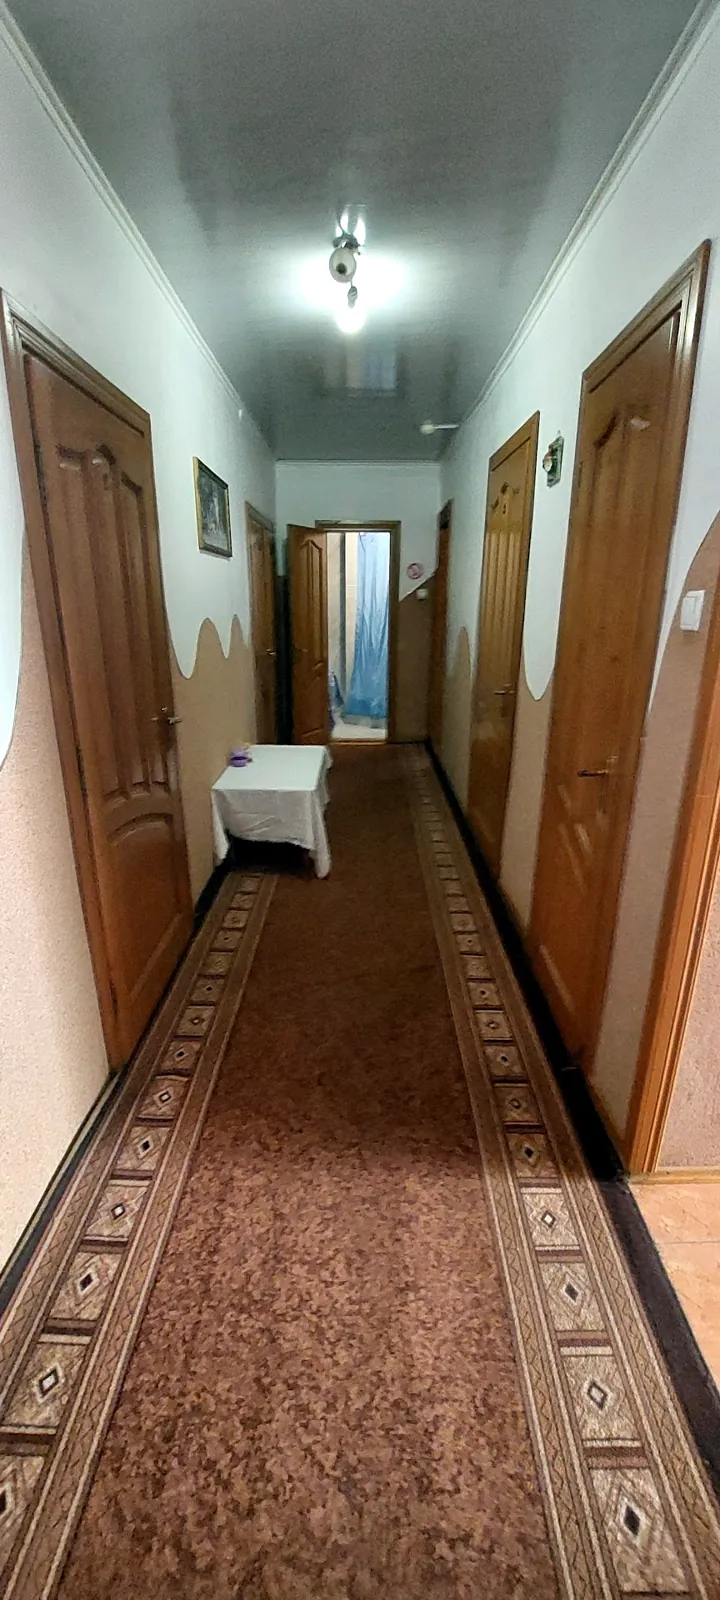
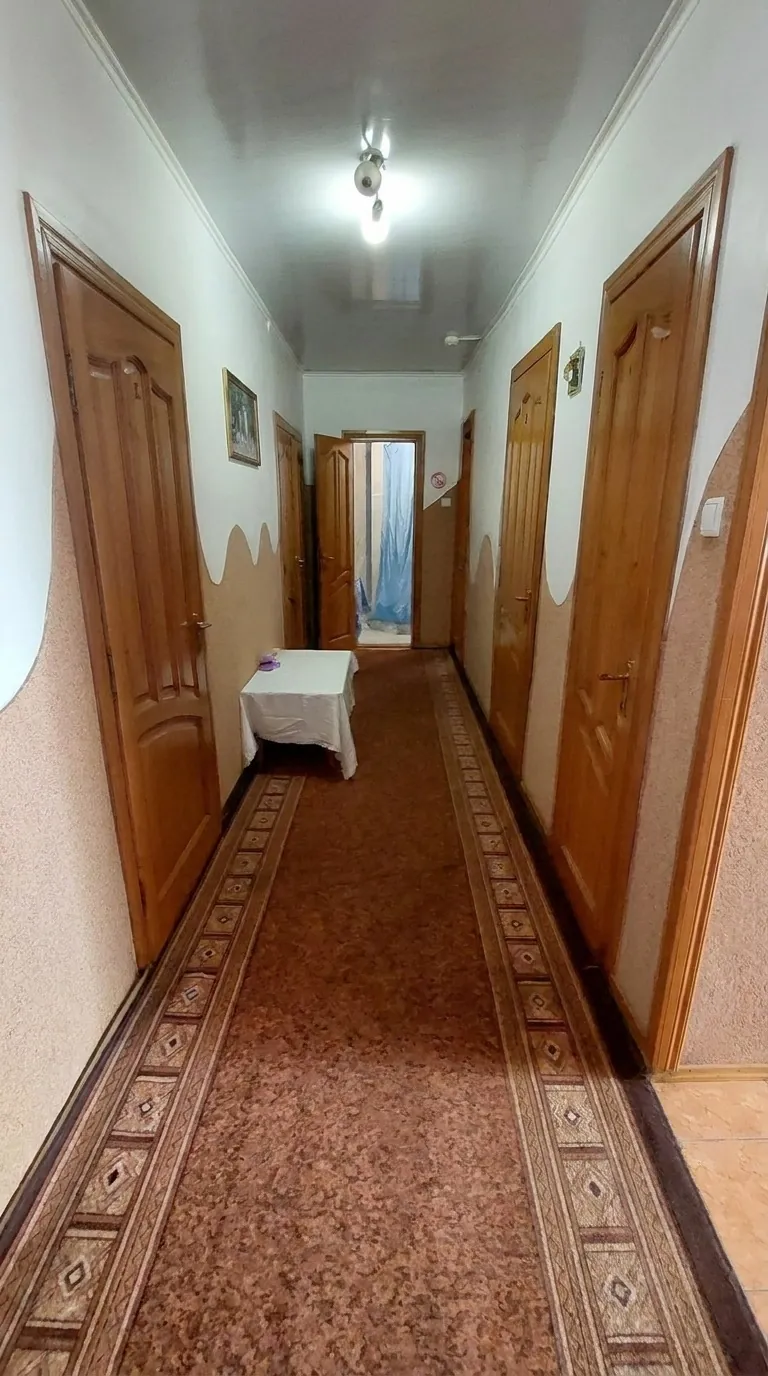
Retouched guest photos: light, white balance, straight verticals

diff --git a/index.html b/index.html
@@ -885,9 +885,9 @@ textarea.inp{height:auto;min-height:92px;padding:13px 14px;line-height:1.45;resi
         <p>«Геолог» займає перший поверх будинку на вулиці Степана Бандери, 13а, за ялинками і цегляною огорожею. До залізничного вокзалу 8 хвилин пішки, до майдану Ринок 11. Гість пише: «поруч з залізничним вокзалом, але його не чути».</p>
         <p>Номери на одного, двох і чотирьох гостей. Душ і кухня в блоці на кілька номерів, як у квартирі, а частина номерів має власний санвузол. На кухні можна готувати самому, тому тут зручно жити у відрядженні, навіть довгому. Гостей зустрічають і заселяють адміністратори.</p>
       </div>
-      <figure class="ph about__a" data-rv><img width="1600" height="900" src="img/fasad.webp" alt="Готель «Геолог»: вхід з зеленою вивіскою, ялинки і квіти перед ганком" loading="lazy" decoding="async"></figure>
-      <figure class="ph about__b" data-rv><img width="1600" height="1200" src="img/dbl-1.webp" alt="Двомісний номер з великим ліжком і шторами з ламбрекеном" loading="lazy" decoding="async"></figure>
-      <figure class="ph about__c" data-rv><img width="1600" height="1200" src="img/kukhnia-1.webp" alt="Спільна кухня з чайником, мікрохвильовкою і посудом" loading="lazy" decoding="async"></figure>
+      <figure class="ph about__a" data-rv><img width="1376" height="768" src="img/fasad.webp" alt="Готель «Геолог»: вхід з зеленою вивіскою, ялинки і квіти перед ганком" loading="lazy" decoding="async"></figure>
+      <figure class="ph about__b" data-rv><img width="1200" height="896" src="img/dbl-1.webp" alt="Двомісний номер з великим ліжком і шторами з ламбрекеном" loading="lazy" decoding="async"></figure>
+      <figure class="ph about__c" data-rv><img width="1200" height="896" src="img/kukhnia-1.webp" alt="Спільна кухня з чайником, мікрохвильовкою і посудом" loading="lazy" decoding="async"></figure>
     </div>
   </div>
 </section>
@@ -957,7 +957,7 @@ textarea.inp{height:auto;min-height:92px;padding:13px 14px;line-height:1.45;resi
       <div class="rcar" id="rcar" data-rv tabindex="-1">
         
 <article class="rcard">
-          <img width="406" height="900" src="img/dbl-3.webp" alt="Двомісний номер" loading="lazy" decoding="async">
+          <img width="768" height="1376" src="img/dbl-3.webp" alt="Двомісний номер" loading="lazy" decoding="async">
           <button class="rcard__hit" type="button" data-open="tpl-dbl" aria-label="Двомісний, детальніше"></button>
           <div class="rcard__bar"><div><h3>Двомісний</h3><p>одне велике ліжко або два окремі</p></div><span class="rcard__go" aria-hidden="true"><svg class="i"><use href="#i-arrow"/></svg></span></div>
         </article>
@@ -967,7 +967,7 @@ textarea.inp{height:auto;min-height:92px;padding:13px 14px;line-height:1.45;resi
           <div class="rcard__bar"><div><h3>Сімейний</h3><p>для батьків з дітьми</p></div><span class="rcard__go" aria-hidden="true"><svg class="i"><use href="#i-arrow"/></svg></span></div>
         </article>
 <article class="rcard">
-          <img width="1200" height="1600" src="img/single-1.webp" alt="Одномісний номер" loading="lazy" decoding="async">
+          <img width="896" height="1200" src="img/single-1.webp" alt="Одномісний номер" loading="lazy" decoding="async">
           <button class="rcard__hit" type="button" data-open="tpl-single" aria-label="Одномісний, детальніше"></button>
           <div class="rcard__bar"><div><h3>Одномісний</h3><p>для того, хто їде сам</p></div><span class="rcard__go" aria-hidden="true"><svg class="i"><use href="#i-arrow"/></svg></span></div>
         </article>
@@ -996,23 +996,23 @@ textarea.inp{height:auto;min-height:92px;padding:13px 14px;line-height:1.45;resi
     </div>
     <div class="svc__panel" role="tabpanel" id="pan-1" aria-labelledby="tab-1">
       <div class="svc__txt"><p>Кухня на кілька номерів, як у квартирі: електроплита, холодильник, чайник, мікрохвильовка і посуд. Кава, чай і цукор від готелю. Гостя пише: «Є кухня, де можна випити кави або чаю, якими пригощає готель».</p><a class="btn btn--ghost" href="#bron">Забронювати</a></div>
-      <div class="svc__pic is-duo"><img width="1600" height="1200" src="img/kukhnia-1.webp" alt="Кухня з чайником, мікрохвильовкою і посудом" loading="lazy" decoding="async"><img width="1200" height="1600" src="img/kukhnia-2.webp" alt="Обідній куточок з диванчиком біля вікна" loading="lazy" decoding="async"><span class="chip">Фото гостей</span></div>
+      <div class="svc__pic is-duo"><img width="1200" height="896" src="img/kukhnia-1.webp" alt="Кухня з чайником, мікрохвильовкою і посудом" loading="lazy" decoding="async"><img width="896" height="1200" src="img/kukhnia-2.webp" alt="Обідній куточок з диванчиком біля вікна" loading="lazy" decoding="async"><span class="chip">Фото гостей</span></div>
     </div>
     <div class="svc__panel" role="tabpanel" id="pan-2" aria-labelledby="tab-2" hidden>
       <div class="svc__txt"><p>Душ у блоці поруч з номером, частина номерів має власний санвузол. У душовій пральна машина, праску дадуть на прохання. Гість пише: «Туалет і душ в гарному стані, чисто, сухо і нічого зайвого».</p><a class="btn btn--ghost" href="#rooms">Дивитися номери</a></div>
-      <div class="svc__pic is-duo"><img width="720" height="1600" src="img/dush.webp" alt="Душова кабіна з плиткою" loading="lazy" decoding="async"><img width="1200" height="1600" src="img/korydor.webp" alt="Світлий коридор між номерами" loading="lazy" decoding="async"><span class="chip">Фото гостей</span></div>
+      <div class="svc__pic is-duo"><img width="768" height="1376" src="img/dush.webp" alt="Душова кабіна з плиткою" loading="lazy" decoding="async"><img width="896" height="1200" src="img/korydor.webp" alt="Світлий коридор між номерами" loading="lazy" decoding="async"><span class="chip">Фото гостей</span></div>
     </div>
     <div class="svc__panel" role="tabpanel" id="pan-3" aria-labelledby="tab-3" hidden>
       <div class="svc__txt"><p>Гість у відрядженні пише: «При відключенні світла вмикається інвертор, що теж приємно здивувало». Wi-Fi безкоштовний, у номерах телевізор, на вході домофон.</p><a class="btn btn--ghost" href="#bron">Забронювати</a></div>
-      <div class="svc__pic is-duo"><img width="1600" height="1200" src="img/dbl-1.webp" alt="Номер з телевізором на стіні" loading="lazy" decoding="async"><img width="1600" height="1200" src="img/vkhid.webp" alt="Вхід з домофоном" loading="lazy" decoding="async"><span class="chip">Фото гостей</span></div>
+      <div class="svc__pic is-duo"><img width="1200" height="896" src="img/dbl-1.webp" alt="Номер з телевізором на стіні" loading="lazy" decoding="async"><img width="1200" height="896" src="img/vkhid.webp" alt="Вхід з домофоном" loading="lazy" decoding="async"><span class="chip">Фото гостей</span></div>
     </div>
     <div class="svc__panel" role="tabpanel" id="pan-4" aria-labelledby="tab-4" hidden>
       <div class="svc__txt"><p>Заїзд з 12:00, виїзд о 12:00 наступного дня. Приїжджаєте раніше? Зателефонуйте заздалегідь і скажіть, о котрій будете: ранній заїзд можливий за домовленістю. Гості розповідають, що їх дочекалися й заселили навіть пізно ввечері. З домашніми тваринами не поселяємо.</p><a class="btn btn--ghost" href="viber://chat?number=%2B380962184136">Написати у Viber</a></div>
-      <div class="svc__pic is-duo"><img width="1600" height="1200" src="img/fasad-osin.webp" alt="Ганок готелю з цегляними стовпчиками" loading="lazy" decoding="async"><img width="720" height="1600" src="img/korydor-2.webp" alt="Коридор з дверима номерів" loading="lazy" decoding="async"><span class="chip">Фото гостей</span></div>
+      <div class="svc__pic is-duo"><img width="1200" height="896" src="img/fasad-osin.webp" alt="Ганок готелю з цегляними стовпчиками" loading="lazy" decoding="async"><img width="768" height="1376" src="img/korydor-2.webp" alt="Коридор з дверима номерів" loading="lazy" decoding="async"><span class="chip">Фото гостей</span></div>
     </div>
     <div class="svc__panel" role="tabpanel" id="pan-5" aria-labelledby="tab-5" hidden>
       <div class="svc__txt"><p>Вокзал за 8 хвилин пішки, майдан Ринок за 11. Поруч супермаркет, продуктові, кафе й ринок. А вулиця Степана Бандери тут тиха: гість пише, що вокзалу не чути.</p><a class="btn btn--ghost" href="#place">Як дійти</a></div>
-      <div class="svc__pic is-duo"><img width="1600" height="900" src="img/fasad.webp" alt="Будинок з вулиці Степана Бандери" loading="lazy" decoding="async"><img width="1600" height="1200" src="img/fasad-yalyny.webp" alt="Ялинки і цегляна огорожа" loading="lazy" decoding="async"><span class="chip">Фото гостей</span></div>
+      <div class="svc__pic is-duo"><img width="1376" height="768" src="img/fasad.webp" alt="Будинок з вулиці Степана Бандери" loading="lazy" decoding="async"><img width="1600" height="1200" src="img/fasad-yalyny.webp" alt="Ялинки і цегляна огорожа" loading="lazy" decoding="async"><span class="chip">Фото гостей</span></div>
     </div>
     <div class="svc__nav">
       <div class="arrows" role="group" aria-label="Перемкнути розділ">
@@ -1048,18 +1048,18 @@ textarea.inp{height:auto;min-height:92px;padding:13px 14px;line-height:1.45;resi
     </div>
     <div class="gal" id="gal" data-rv tabindex="-1">
       <button class="gal__i js-lb" type="button" data-cap="Сімейний номер після ремонту, фото готелю"><img width="1200" height="896" src="img/fam-new-1.webp" alt="Сімейний номер після ремонту" loading="lazy" decoding="async"></button>
-      <button class="gal__i js-lb" type="button" data-cap="Двомісний номер з великим ліжком, фото готелю"><img width="406" height="900" src="img/dbl-3.webp" alt="Двомісний номер з великим ліжком" loading="lazy" decoding="async"></button>
+      <button class="gal__i js-lb" type="button" data-cap="Двомісний номер з великим ліжком, фото готелю"><img width="768" height="1376" src="img/dbl-3.webp" alt="Двомісний номер з великим ліжком" loading="lazy" decoding="async"></button>
       <button class="gal__i js-lb" type="button" data-cap="Ванна кімната з новою плиткою, фото готелю"><img width="896" height="1200" src="img/vanna-1.webp" alt="Ванна кімната з новою плиткою" loading="lazy" decoding="async"></button>
-      <button class="gal__i js-lb" type="button" data-cap="Сходи до входу з вивіскою «Геолог», фото готелю"><img width="675" height="900" src="img/vkhid-2.webp" alt="Сходи до входу з вивіскою «Геолог»" loading="lazy" decoding="async"></button>
-      <button class="gal__i js-lb" type="button" data-cap="Вхід з вулиці Степана Бандери, ялинки біля ганку, фото готелю"><img width="1600" height="900" src="img/fasad.webp" alt="Вхід з вулиці Степана Бандери, ялинки біля ганку" loading="lazy" decoding="async"></button>
-      <button class="gal__i js-lb" type="button" data-cap="Спільна кухня: чайник, мікрохвильовка, посуд, фото готелю"><img width="1600" height="1200" src="img/kukhnia-1.webp" alt="Спільна кухня: чайник, мікрохвильовка, посуд" loading="lazy" decoding="async"></button>
-      <button class="gal__i js-lb" type="button" data-cap="Ганок восени, фото готелю"><img width="1600" height="1200" src="img/fasad-osin.webp" alt="Ганок восени" loading="lazy" decoding="async"></button>
-      <button class="gal__i js-lb" type="button" data-cap="Одномісний номер, фото готелю"><img width="1200" height="1600" src="img/single-1.webp" alt="Одномісний номер" loading="lazy" decoding="async"></button>
-      <button class="gal__i js-lb" type="button" data-cap="Обідній куточок на кухні, фото готелю"><img width="1200" height="1600" src="img/kukhnia-2.webp" alt="Обідній куточок на кухні" loading="lazy" decoding="async"></button>
-      <button class="gal__i js-lb" type="button" data-cap="Двері з вивіскою «Геолог», фото готелю"><img width="1600" height="1200" src="img/vkhid.webp" alt="Двері з вивіскою «Геолог»" loading="lazy" decoding="async"></button>
-      <button class="gal__i js-lb" type="button" data-cap="Двомісний номер, фото готелю"><img width="1200" height="1600" src="img/dbl-2.webp" alt="Двомісний номер" loading="lazy" decoding="async"></button>
-      <button class="gal__i js-lb" type="button" data-cap="Душова кабіна, фото готелю"><img width="720" height="1600" src="img/dush.webp" alt="Душова кабіна" loading="lazy" decoding="async"></button>
-      <button class="gal__i js-lb" type="button" data-cap="Коридор з килимовою доріжкою, фото готелю"><img width="1200" height="1600" src="img/korydor.webp" alt="Коридор з килимовою доріжкою" loading="lazy" decoding="async"></button>
+      <button class="gal__i js-lb" type="button" data-cap="Сходи до входу з вивіскою «Геолог», фото готелю"><img width="896" height="1200" src="img/vkhid-2.webp" alt="Сходи до входу з вивіскою «Геолог»" loading="lazy" decoding="async"></button>
+      <button class="gal__i js-lb" type="button" data-cap="Вхід з вулиці Степана Бандери, ялинки біля ганку, фото готелю"><img width="1376" height="768" src="img/fasad.webp" alt="Вхід з вулиці Степана Бандери, ялинки біля ганку" loading="lazy" decoding="async"></button>
+      <button class="gal__i js-lb" type="button" data-cap="Спільна кухня: чайник, мікрохвильовка, посуд, фото готелю"><img width="1200" height="896" src="img/kukhnia-1.webp" alt="Спільна кухня: чайник, мікрохвильовка, посуд" loading="lazy" decoding="async"></button>
+      <button class="gal__i js-lb" type="button" data-cap="Ганок восени, фото готелю"><img width="1200" height="896" src="img/fasad-osin.webp" alt="Ганок восени" loading="lazy" decoding="async"></button>
+      <button class="gal__i js-lb" type="button" data-cap="Одномісний номер, фото готелю"><img width="896" height="1200" src="img/single-1.webp" alt="Одномісний номер" loading="lazy" decoding="async"></button>
+      <button class="gal__i js-lb" type="button" data-cap="Обідній куточок на кухні, фото готелю"><img width="896" height="1200" src="img/kukhnia-2.webp" alt="Обідній куточок на кухні" loading="lazy" decoding="async"></button>
+      <button class="gal__i js-lb" type="button" data-cap="Двері з вивіскою «Геолог», фото готелю"><img width="1200" height="896" src="img/vkhid.webp" alt="Двері з вивіскою «Геолог»" loading="lazy" decoding="async"></button>
+      <button class="gal__i js-lb" type="button" data-cap="Двомісний номер, фото готелю"><img width="896" height="1200" src="img/dbl-2.webp" alt="Двомісний номер" loading="lazy" decoding="async"></button>
+      <button class="gal__i js-lb" type="button" data-cap="Душова кабіна, фото готелю"><img width="768" height="1376" src="img/dush.webp" alt="Душова кабіна" loading="lazy" decoding="async"></button>
+      <button class="gal__i js-lb" type="button" data-cap="Коридор з килимовою доріжкою, фото готелю"><img width="896" height="1200" src="img/korydor.webp" alt="Коридор з килимовою доріжкою" loading="lazy" decoding="async"></button>
       <button class="gal__i js-lb" type="button" data-cap="Будинок за ялинками і цегляною огорожею, фото готелю"><img width="1600" height="1200" src="img/fasad-yalyny.webp" alt="Будинок за ялинками і цегляною огорожею" loading="lazy" decoding="async"></button>
     </div>
   </div>
@@ -1202,10 +1202,10 @@ textarea.inp{height:auto;min-height:92px;padding:13px 14px;line-height:1.45;resi
       <aside class="mybook" aria-labelledby="my-t" data-rv>
         <h3 id="my-t">Моє бронювання</h3>
         <div class="mybook__room" aria-hidden="true">
-          <img data-r="any" width="1600" height="900" class="is-on" src="img/fasad.webp" alt="" loading="lazy" decoding="async">
-          <img data-r="dbl" width="406" height="900" src="img/dbl-3.webp" alt="" loading="lazy" decoding="async">
+          <img data-r="any" width="1376" height="768" class="is-on" src="img/fasad.webp" alt="" loading="lazy" decoding="async">
+          <img data-r="dbl" width="768" height="1376" src="img/dbl-3.webp" alt="" loading="lazy" decoding="async">
           <img data-r="fam" width="1200" height="896" src="img/fam-new-1.webp" alt="" loading="lazy" decoding="async">
-          <img data-r="single" width="1200" height="1600" src="img/single-1.webp" alt="" loading="lazy" decoding="async">
+          <img data-r="single" width="896" height="1200" src="img/single-1.webp" alt="" loading="lazy" decoding="async">
         </div>
         <p class="mybook__name" id="myName">Будь-який вільний номер</p>
         <dl>
@@ -1334,8 +1334,8 @@ textarea.inp{height:auto;min-height:92px;padding:13px 14px;line-height:1.45;resi
 <template id="tpl-dbl">
   <div class="rdlg__in">
     <div class="rdlg__pic">
-      <img width="406" height="900" class="rdlg__main" src="img/dbl-3.webp" alt="Двомісний номер">
-      <div class="rdlg__thumbs"><button type="button" data-src="img/dbl-3.webp" aria-current="true" aria-label="Фото 1"><img width="406" height="900" src="img/dbl-3.webp" alt="" loading="lazy"></button><button type="button" data-src="img/dbl-1.webp" aria-label="Фото 2"><img width="1600" height="1200" src="img/dbl-1.webp" alt="" loading="lazy"></button><button type="button" data-src="img/dbl-2.webp" aria-label="Фото 3"><img width="1200" height="1600" src="img/dbl-2.webp" alt="" loading="lazy"></button><button type="button" data-src="img/kukhnia-1.webp" aria-label="Фото 4"><img width="1600" height="1200" src="img/kukhnia-1.webp" alt="" loading="lazy"></button></div>
+      <img width="768" height="1376" class="rdlg__main" src="img/dbl-3.webp" alt="Двомісний номер">
+      <div class="rdlg__thumbs"><button type="button" data-src="img/dbl-3.webp" aria-current="true" aria-label="Фото 1"><img width="768" height="1376" src="img/dbl-3.webp" alt="" loading="lazy"></button><button type="button" data-src="img/dbl-1.webp" aria-label="Фото 2"><img width="1200" height="896" src="img/dbl-1.webp" alt="" loading="lazy"></button><button type="button" data-src="img/dbl-2.webp" aria-label="Фото 3"><img width="896" height="1200" src="img/dbl-2.webp" alt="" loading="lazy"></button><button type="button" data-src="img/kukhnia-1.webp" aria-label="Фото 4"><img width="1200" height="896" src="img/kukhnia-1.webp" alt="" loading="lazy"></button></div>
     </div>
     <div class="rdlg__body">
       <h3>Двомісний номер</h3>
@@ -1368,8 +1368,8 @@ textarea.inp{height:auto;min-height:92px;padding:13px 14px;line-height:1.45;resi
 </template><template id="tpl-single">
   <div class="rdlg__in">
     <div class="rdlg__pic">
-      <img width="1200" height="1600" class="rdlg__main" src="img/single-1.webp" alt="Одномісний номер">
-      <div class="rdlg__thumbs"><button type="button" data-src="img/single-1.webp" aria-current="true" aria-label="Фото 1"><img width="1200" height="1600" src="img/single-1.webp" alt="" loading="lazy"></button><button type="button" data-src="img/single-2.webp" aria-label="Фото 2"><img width="720" height="1600" src="img/single-2.webp" alt="" loading="lazy"></button><button type="button" data-src="img/dush.webp" aria-label="Фото 3"><img width="720" height="1600" src="img/dush.webp" alt="" loading="lazy"></button></div>
+      <img width="896" height="1200" class="rdlg__main" src="img/single-1.webp" alt="Одномісний номер">
+      <div class="rdlg__thumbs"><button type="button" data-src="img/single-1.webp" aria-current="true" aria-label="Фото 1"><img width="896" height="1200" src="img/single-1.webp" alt="" loading="lazy"></button><button type="button" data-src="img/single-2.webp" aria-label="Фото 2"><img width="768" height="1376" src="img/single-2.webp" alt="" loading="lazy"></button><button type="button" data-src="img/dush.webp" aria-label="Фото 3"><img width="768" height="1376" src="img/dush.webp" alt="" loading="lazy"></button></div>
     </div>
     <div class="rdlg__body">
       <h3>Одномісний номер</h3>
